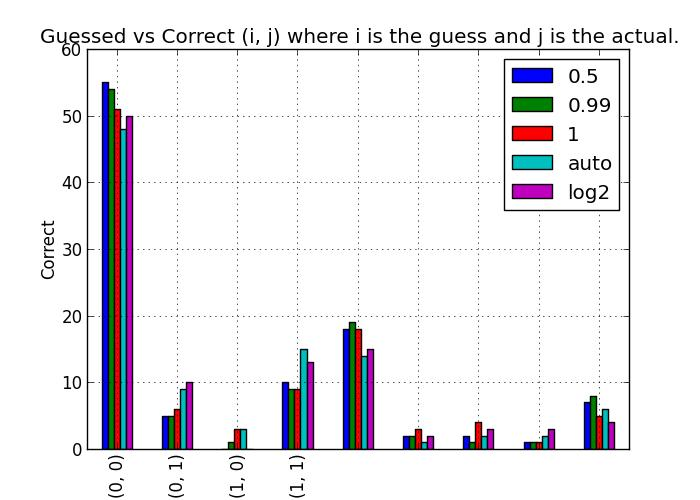
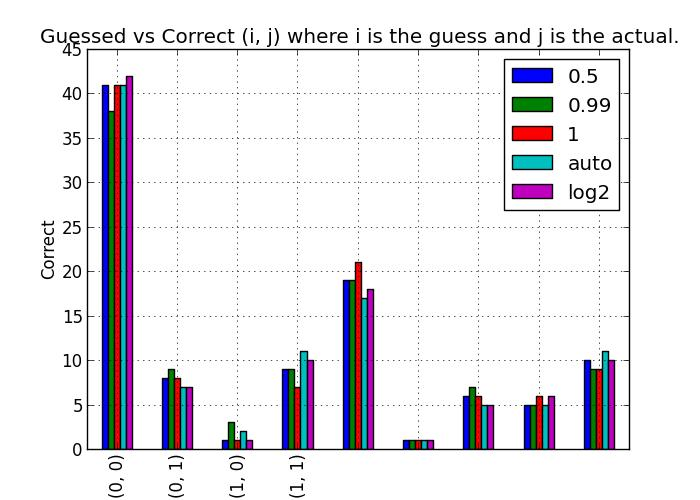
rf v2.0

diff --git a/src/random_forest.py b/src/random_forest.py
@@ -21,12 +21,12 @@ def samples(file_train, size=5000):
     data[:,6] = np.floor(data[:,6]/10)
     np.random.shuffle(data)
 
-    x = data[:size,:-1]
+    x = data[:size,1:-1]
     y = data[:size, -1]
     return x, y
 
 
-def train(x, y, depth=10):
+def train(x, y, depth=None):
     rfc = RandomForestClassifier(max_depth=depth)
     rfc.fit(x,y)
     
@@ -46,29 +46,46 @@ def evaluation(x, y, test_x, test_y):
         rfc.fit(x,y)
 
         pred_y = rfc.predict(test_x)
-        confusion_matrixes[max_feature] = confusion_matrix(test_y, pred_y).reshape(9)
+        confusion_matrixes[max_feature] = confusion_matrix(test_y, pred_y).ravel()
 
-        confusion_df = pd.DataFrame(confusion_matrixes)
+    confusion_df = pd.DataFrame(confusion_matrixes)
 
+    f, ax = plt.subplots(figsize=(7, 5))
+    confusion_df.plot(kind='bar', ax=ax)
+    ax.legend(loc='best')
+    ax.set_title("Guessed vs Correct (i, j) where i is the guess and j is the actual.")
+    ax.grid()
+    ax.set_xticklabels([str((i, j)) for i, j in list(itertools.product(range(3), range(3)))]);
+    ax.set_xlabel("Guessed vs Correct")
+    ax.set_ylabel("Correct")
+    savefig('../img/random_forest_confusion_matrix.jpg')
+
+    n_estimator_params = range(1,50)
+    confusion_matrixes = {}
+    for n_est in n_estimator_params:
+        rfc = RandomForestClassifier(n_estimators=n_est)
+        rfc.fit(x,y)
+        pred_y = rfc.predict(test_x)
+        confusion_matrixes[n_est] = confusion_matrix(test_y, pred_y)
+
+        accuracy = lambda x: np.trace(x) / np.sum(x, dtype=float)
+        confusion_matrixes[n_est] = accuracy(confusion_matrixes[n_est])
+        accuracy_series = pd.Series(confusion_matrixes)
         f, ax = plt.subplots(figsize=(7, 5))
-        confusion_df.plot(kind='bar', ax=ax)
-        ax.legend(loc='best')
-        ax.set_title("Guessed vs Correct (i, j) where i is the guess and j is the actual.")
+        accuracy_series.plot(kind='bar', ax=ax, color='k', alpha=.75)
         ax.grid()
-        ax.set_xticklabels([str((i, j)) for i, j in
-                       list(itertools.product(range(2), range(2)))]);
-        ax.set_xlabel("Guessed vs Correct")
-        ax.set_ylabel("Correct")
-        savefig('../img/random_forest_confusion_matrix.jpg')
-        
-    
+        ax.set_title("Accuracy by Number of Estimators")
+        ax.set_ylim(0, 1) # we want the full scope
+        ax.set_ylabel("Accuracy")
+        ax.set_xlabel("Number of Estimators")
+    savefig('../img/rf_estimators.jpg')
 
 def get_test_data(file_test):
     data = np.genfromtxt(fname=file_test, delimiter=',') 
     data[:,6] = np.floor(data[:,6]/10)
     np.random.shuffle(data)
-
-    return data
+    
+    return data[:,1:]
 
 
 
@@ -78,11 +95,12 @@ def test(classifier, x):
 
 
 def main():
-    x, y = samples('../train.csv', size=5000)
+    x, y = samples('../train.csv', size=50000)
     test_x, test_y = samples('../train.csv', size=100)
     data = get_test_data('../test.csv')
 
-    evaluation(x,y,test_x,test_y)
+    #evaluation(x,y,test_x,test_y)
+    print train(x,y)[0]
 
 if __name__ == '__main__':
     main()

diff --git a/src/decision_tree.py b/src/decision_tree.py
@@ -13,7 +13,7 @@ def get_training_data(file_train):
     data[:,6] = np.floor(data[:,6]/10)
     np.random.shuffle(data)
 
-    x = data[:,:-1]
+    x = data[:,1:-1]
     y = data[:,-1]
     return x, y
 
@@ -23,7 +23,7 @@ def get_test_data(file_test):
     data[:,6] = np.floor(data[:,6]/10)
     np.random.shuffle(data)
 
-    return data
+    return data[:,1:]
 
 
 def train(x,y,depth=10):
